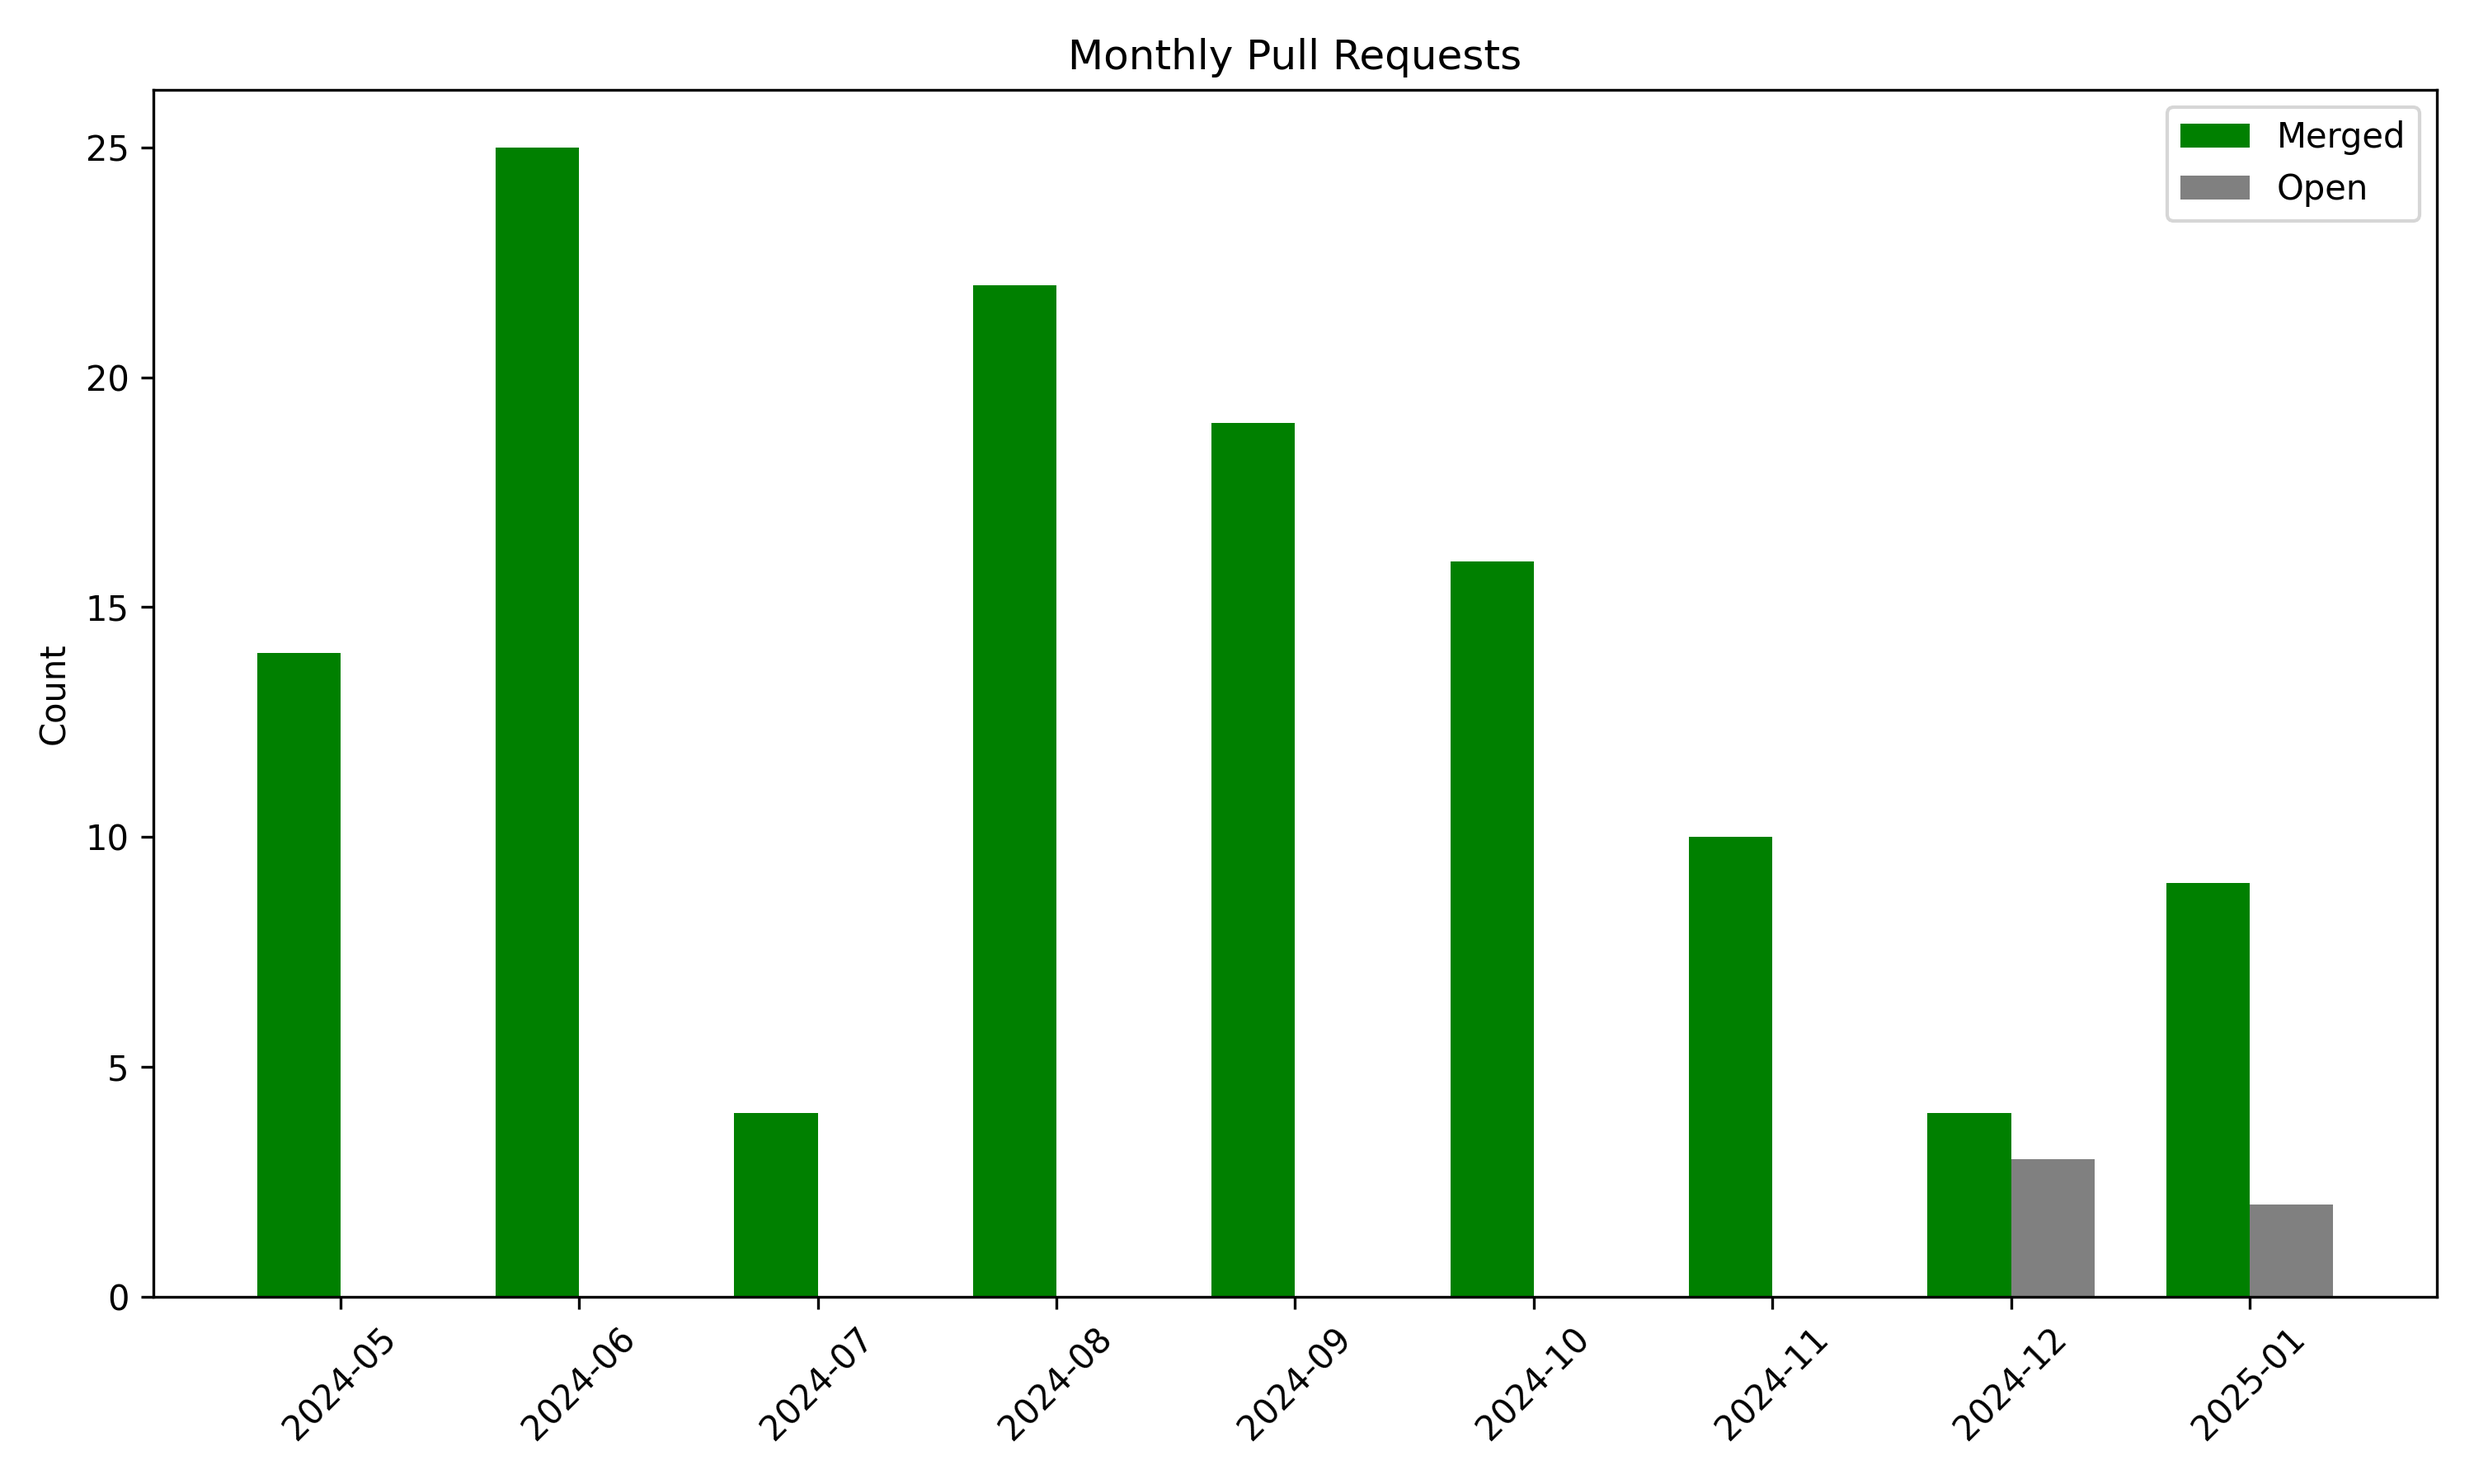
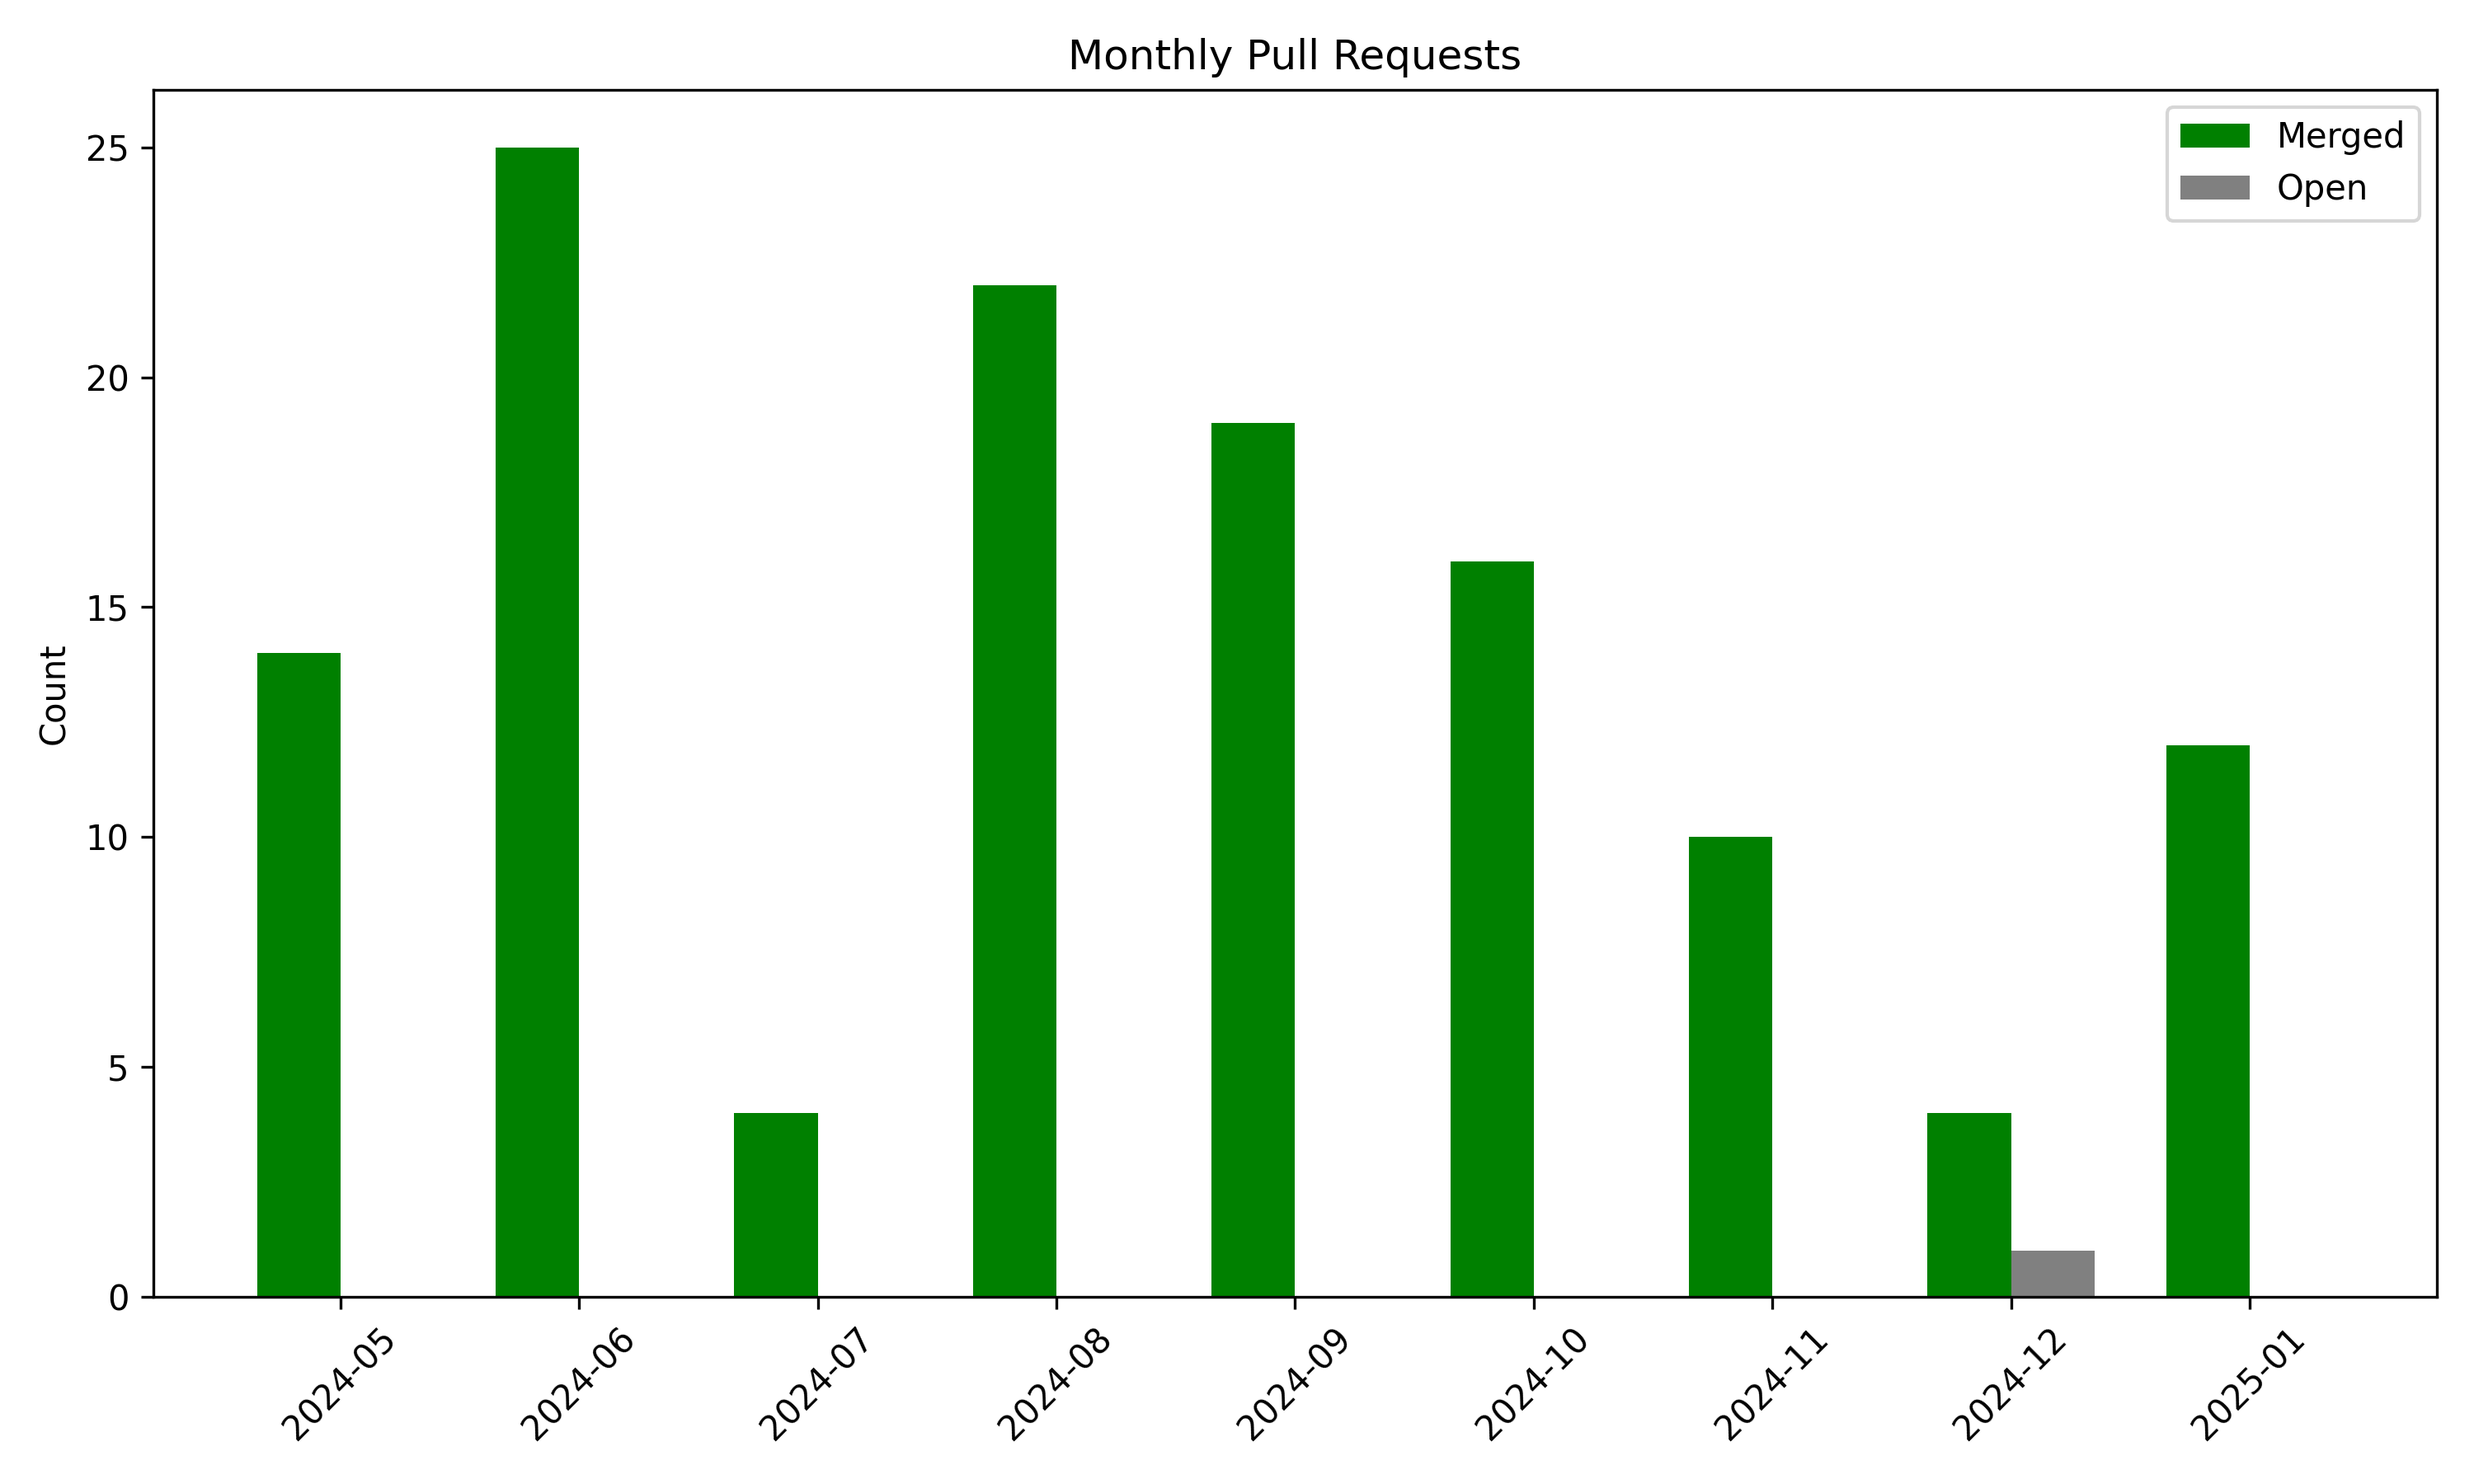
docs: 14/01/2025

Changed region(s): [[0.868, 0.4978, 0.93, 0.5911], [0.899, 0.8089, 0.961, 0.8711], [0.806, 0.7778, 0.868, 0.84]]

diff --git a/README.md b/README.md
@@ -13,11 +13,9 @@
 - [#233](https://github.com/daytonaio/docs/pull/233): docs: add sdk section to readme (merged at: 2025-01-13T08:49:25Z)
 - [#234](https://github.com/daytonaio/docs/pull/234): docs: add api keys section (merged at: 2025-01-13T16:13:01Z)
 - [#214](https://github.com/daytonaio/docs/pull/214): docs: add architecture diagram (merged at: 2025-01-13T16:51:04Z)
-
-### Open Pull Requests
-
-- [#226](https://github.com/daytonaio/docs/pull/226): Update workspace-management.mdx (created at: 2025-01-07T19:37:55Z)
-- [#227](https://github.com/daytonaio/docs/pull/227): docs: refactor sdk code snippets & content (created at: 2025-01-08T21:32:18Z)
+- [#205](https://github.com/daytonaio/docs/pull/205): docs: add workspace toolbox (merged at: 2025-01-14T07:44:16Z)
+- [#227](https://github.com/daytonaio/docs/pull/227): docs: refactor sdk code snippets & content (merged at: 2025-01-14T07:47:26Z)
+- [#203](https://github.com/daytonaio/docs/pull/203): chore(deps): Bump nanoid from 3.3.7 to 3.3.8 (merged at: 2025-01-14T07:51:57Z)
 
 ## 2024-12
 
@@ -30,8 +28,6 @@
 
 ### Open Pull Requests
 
-- [#203](https://github.com/daytonaio/docs/pull/203): chore(deps): Bump nanoid from 3.3.7 to 3.3.8 (created at: 2024-12-13T14:53:57Z)
-- [#205](https://github.com/daytonaio/docs/pull/205): docs: add workspace toolbox (created at: 2024-12-15T00:00:53Z)
 - [#207](https://github.com/daytonaio/docs/pull/207): docs: refactor workspaces, projects, and targets (created at: 2024-12-17T00:25:33Z)
 
 ## 2024-11
